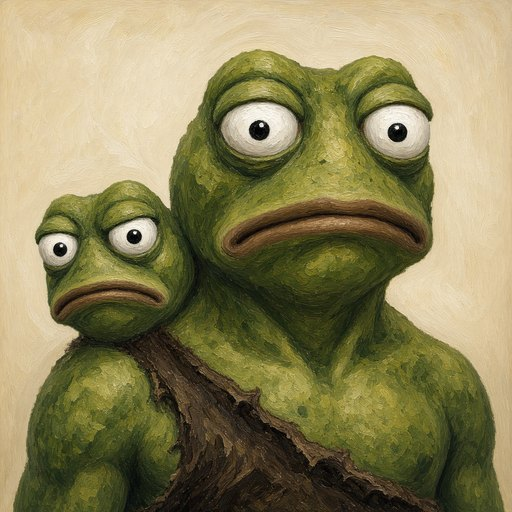
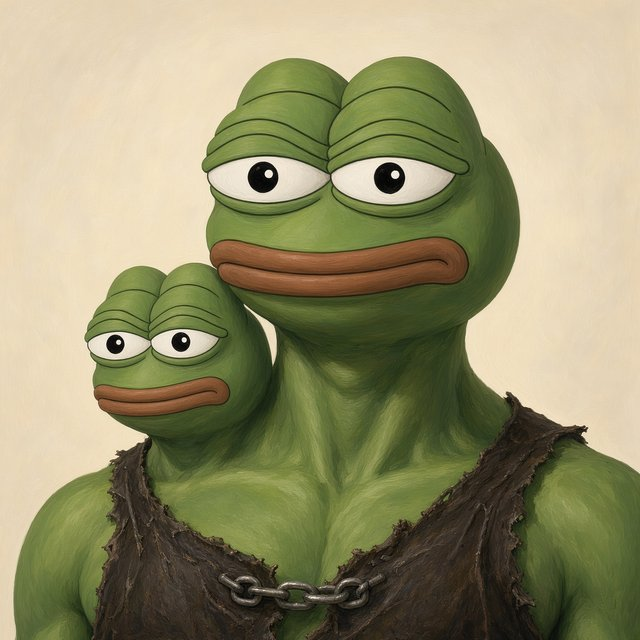
Replace Double Trouble art with chosen preview

diff --git a/src/lib/game/avatars.ts b/src/lib/game/avatars.ts
@@ -82,7 +82,7 @@ export const AVATARS = [
   { id: "jail", name: "Jail", src: "/avatars/jail.jpg?v=1" },
   { id: "crypepe", name: "Crying", src: "/avatars/crypepe.jpg?v=2" },
   { id: "joker", name: "Joker", src: "/avatars/joker.jpg?v=2" },
-  { id: "doubletrouble", name: "Double Trouble", src: "/avatars/doubletrouble.jpg?v=3" },
+  { id: "doubletrouble", name: "Double Trouble", src: "/avatars/doubletrouble.jpg?v=4" },
   { id: "golden", name: "Golden", src: "/avatars/golden.jpg?v=1" },
 ] as const;
 
